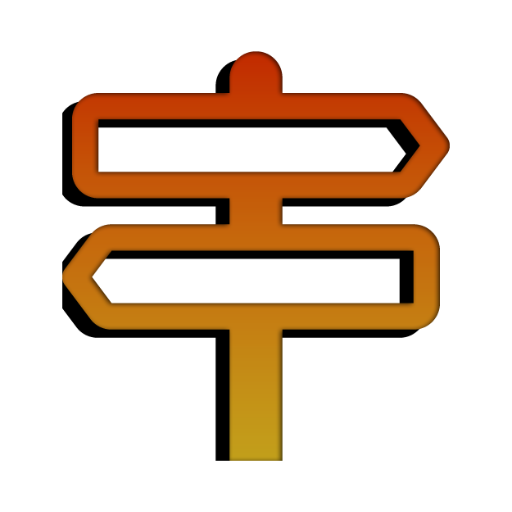
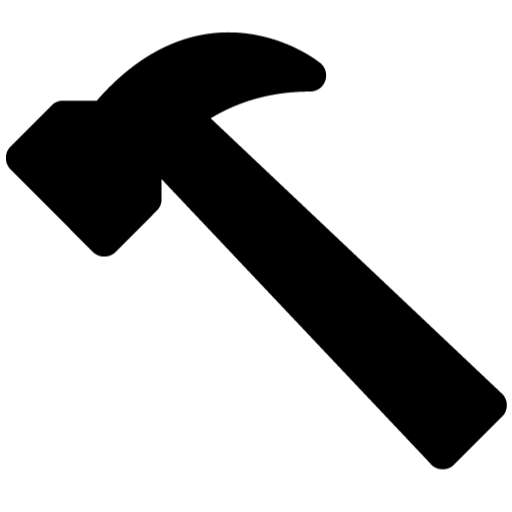
tried to fix ico and add checkboxes as bulletpoints

diff --git a/index.html b/index.html
@@ -3,7 +3,7 @@
 <head>
     <meta charset="UTF-8">
     <meta name="viewport" content="width=device-width, initial-scale=1.0">
-    <title>1720-National Parks</title>
+    <title>1720-Home Improvement</title>
 
 
     <link rel="stylesheet" href="styles/normalize.css">
@@ -29,7 +29,7 @@
 <link rel="shortcut icon" href="/1720-homeimprovement/images/favicon.ico" />
 <link rel="apple-touch-icon" sizes="180x180" href="/1720-homeimprovement/images/apple-touch-icon.png" />
 <meta name="apple-mobile-web-app-title" content="Home Improvement" />
-<link rel="manifest" href="/1720-homeimprovement/site.webmanifest" />
+<link rel="manifest" href="/1720-homeimprovement/images/site.webmanifest" />
 
     <!--SCRIPTS--->
     

diff --git a/styles/small.css b/styles/small.css
@@ -386,7 +386,7 @@ nav li.active a{
 
 /**List Stylizatin Layout tag**/
     #listStyle{
-        list-style-type: url('images/checkbox.webp'); 
+        list-style-image: url('images/checkbox.webp'); 
         padding-bottom: 1rem;
     }
 
